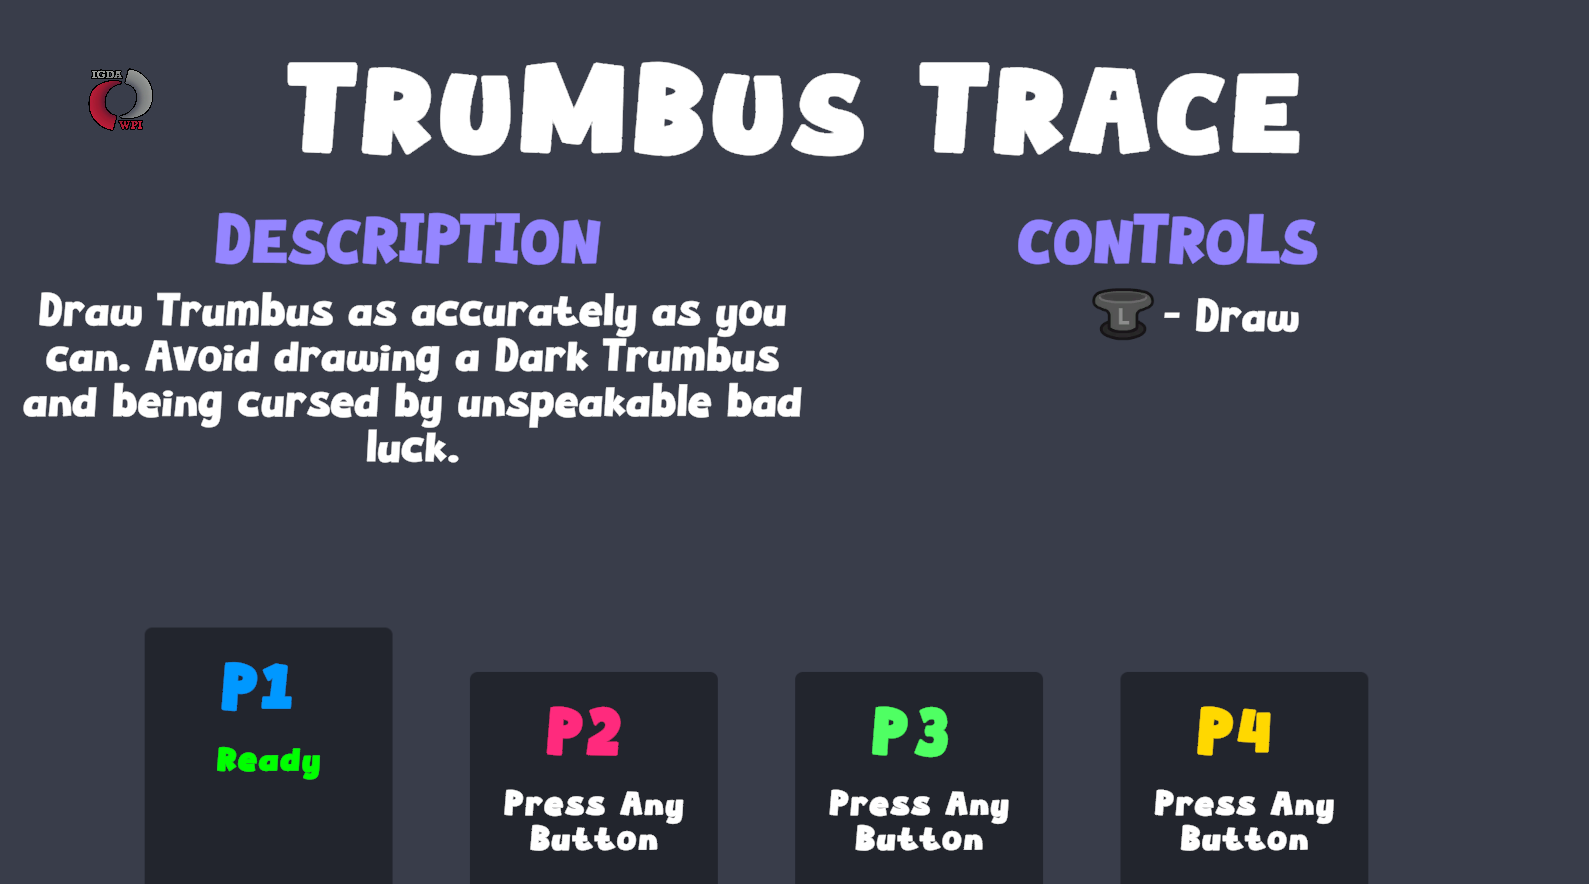
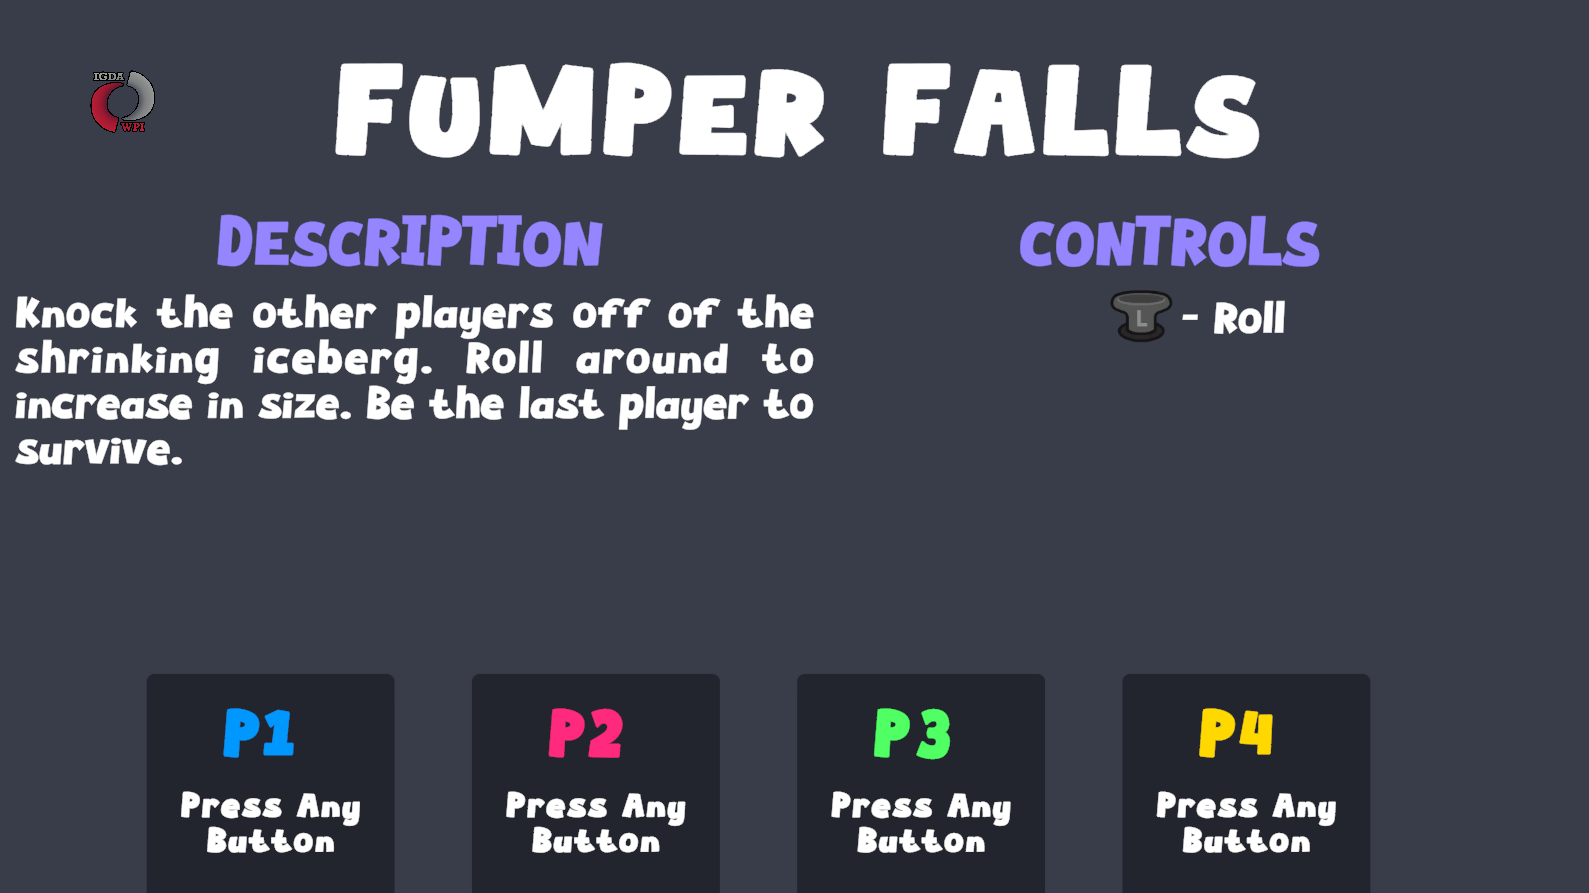
adding minigame framework content

diff --git a/pages/minigame-framework.html b/pages/minigame-framework.html
@@ -43,6 +43,8 @@
     <div class="container-fluid">
       <p>This is a Unity Project framework that allows for a unique game jam that I founded while Vice President of the WPI IGDA chapter. This framework serves to connect several multiplayer minigames created independently by different developers and allows for all entries to the jam to be combined into a single executable.  </p>
       <iframe frameborder="0" src="https://itch.io/embed/4024097?bg_color=4a4863&amp;fg_color=ffffff&amp;link_color=ff3a62&amp;border_color=555172" width="552" height="167"><a href="https://igda-wpi.itch.io/wpi-igda-party">WPI IGDA Party by WPI IGDA</a></iframe>
+
+
       <details open id="framework">
         <summary class="collapsible-header"><h2>Framework</h2></summary>
         <p>
@@ -51,32 +53,83 @@
             Github Repo
           </a>
         </p>
+      </details>
 
+      <details open>
+        <summary class="collapsible-header"><h2>Multiplayer Input System</h2></summary>
+        <p>
+        <p>For handling multiplayer input we start with Player Input and Player Input Manager scripts from Unity's Input System package. When a controller is connected, the Player Input Manager will instantiate an instance of a provided Player Input prefab connected to that controller. Our player controller script can then subscribe to input events stored on the Player Input component.</p>
+        <div class="wrapped-container">
+          <img class="wrapped-image" src="../assets/minigame-framework/content/player-input-prefab.png"/>
+          <p>Typically, the Player Input prefab that we provide will be the entire player character object and that object will be destroyed when you leave the scene and recreated in the next. However, we need our input to maintain player slots across scenes and connect to the unique player characters of each scene.   </p>
+          <p>We solve these problems by having the Player Input objects be separated from the characters the players control. The prefab we provide is effectively an empty placeholder that contains only the components required for collecting input and interacting with menus that has been marked <code>DontDestroyOnLoad</code>. These objects are then tied to Player data objects on the overarching MinigameManager singleton to be bound to later.</p>
+        </div>
+
+        <p>Now it's time to talk about our Pawn class. Player characters in minigames derive from the class in order to receive input.</p>
+        <p>The following function call binds the Pawns input functions to the Player Input objects maintained by the framework.</p>
+        <img src="../assets/minigame-framework/content/bind-pawn.png"/>
+        <p>The provided Pawn Manager class binds input given a list of Pawns.</p>
+        <img src="../assets/minigame-framework/content/pawn-manager.png"/>
+
+        <p>In order to subscribe to the Player Inputs C# events, we can't subscribe to individual functions, we instead have to subscribe to a generic event that triggers whenever any input is pressed.</p>
         <div class="accordion">
-          <details>
+          <details open>
+            <summary><h2>Binding Pawn to Player Input</h2></summary>
+            <pre>
+              <code class="language-csharp">
+/// &lt;summary&gt;
+/// Bind a pawn to a PlayerInput. This will bind the pawn's OnActionPressed and OnActionReleased methods to the PlayerInput's action map.
+/// &lt;/summary&gt;
+/// &lt;param name="playerIndex"&gt;The index of the player to bind to this pawn.&lt;/param&gt;
+///  &lt;param name="pawn"&gt;The pawn to bind.  &lt;/param&gt;
+public static void BindPlayerInputToPawn(int playerIndex, Pawn pawn) {
+  if (playerIndex < 0 || playerIndex >= PlayerManager.players.Count) {
+      string message = $"Failed to bind pawn {pawn.name}, player index {playerIndex} is out of range (0-{PlayerManager.players.Count}).";
+      throw new Exception(message);
+  }
+
+  PlayerInput playerInput = PlayerManager.players[playerIndex].playerInput;
+
+  playerInput.onActionTriggered += pawn.HandleInput;
+  playerInput.onActionTriggered += HandlePauseButton;
+
+  // Add to list of bound pawns so that it can later be unbound
+  pawn.playerIndex = playerIndex;
+  _boundPawns.Add(pawn);
+}
+              </code>
+            </pre>
+          </details>
+        </div>
+
+        <p>The code below shows an example of how to get input using a Pawn. The Pawn class has two functions that are executed whenever input is received: <code>OnActionPressed</code> and <code>OnActionReleased</code>. To determine which button was pressed, we need to evaluate the name string of the <code>context</code> parameter.</p>
+        <div class="accordion">
+          <details open>
             <summary><h2>Example Pawn Input</h2></summary>
             <pre>
               <code class="language-csharp">
-// Handle input
-protected override void OnActionPressed(InputAction.CallbackContext context) {
-    if (!isPawnInputEnabled) return;
-
-    // Move
-    if (context.action.name == PawnAction.Move) _moveInput = context.ReadValue&lt;Vector2&gt;();
-
-    // Jump
-    if (context.action.name == PawnAction.ButtonA) {
-        if (!_isGrounded) return;
-
-        _rigidbody.velocity = new Vector3(_rigidbody.velocity.x, jumpForce, _rigidbody.velocity.z);
-        _isGrounded = false;
+public class ExamplePawn : Pawn {
+    // Variables
+    Vector2 moveInput = Vector2.zero;
+    // Handle input
+    protected override void OnActionPressed(InputAction.CallbackContext context) {
+        if (context.action.name == PawnAction.Move) {
+            moveInput = context.ReadValue&lt;Vector2&gt;();
+            // Handle movement in Update
+        }
+        if (context.action.name == PawnAction.ButtonA) {
+            // Jump
+        }
     }
 }
               </code>
             </pre>
           </details>
         </div>
+        <p>To improve usability when comparing against the string values, we have provided a static class named PawnAction which contains constant string variables for each possible action.  </p>
       </details>
+
+
 
 
       <details open id="documentation">

diff --git a/css/project-page.css b/css/project-page.css
@@ -57,6 +57,10 @@
   details > summary > h2 {
     font-size: 115%;
   }
+
+  pre > code {
+    font-size: 70%;
+  }
 }
 
 .project-title-img {
@@ -141,16 +145,23 @@ iframe {
   min-width: 250px;
   padding-bottom: 10px;
 }
+
 .wrapped-container > p {
   padding-left: 1rem;
   font-size: 115%;
-
 }
 
 .wrapped-image {
   float: right;
   margin-left: 30px; /* Space between image and text */
   margin-bottom: 10px;
+  max-width: 100%;
+}
+.wrapped-image-left {
+  float: left;
+  margin-right: 30px; /* Space between image and text */
+  margin-bottom: 10px;
+  max-width: 100%;
 }
 
 .grid {
@@ -274,12 +285,10 @@ pre > code {
   border-top-right-radius: 0px;
   margin: 0;
   margin-top: -35px;
+  max-width: 100%;
+  margin-bottom: -35px;
 }
 
-.accordion{
-  max-width: 100%;
-  margin-right: 15px;
-}
 .accordion > details {}
 
 .accordion > details > summary {